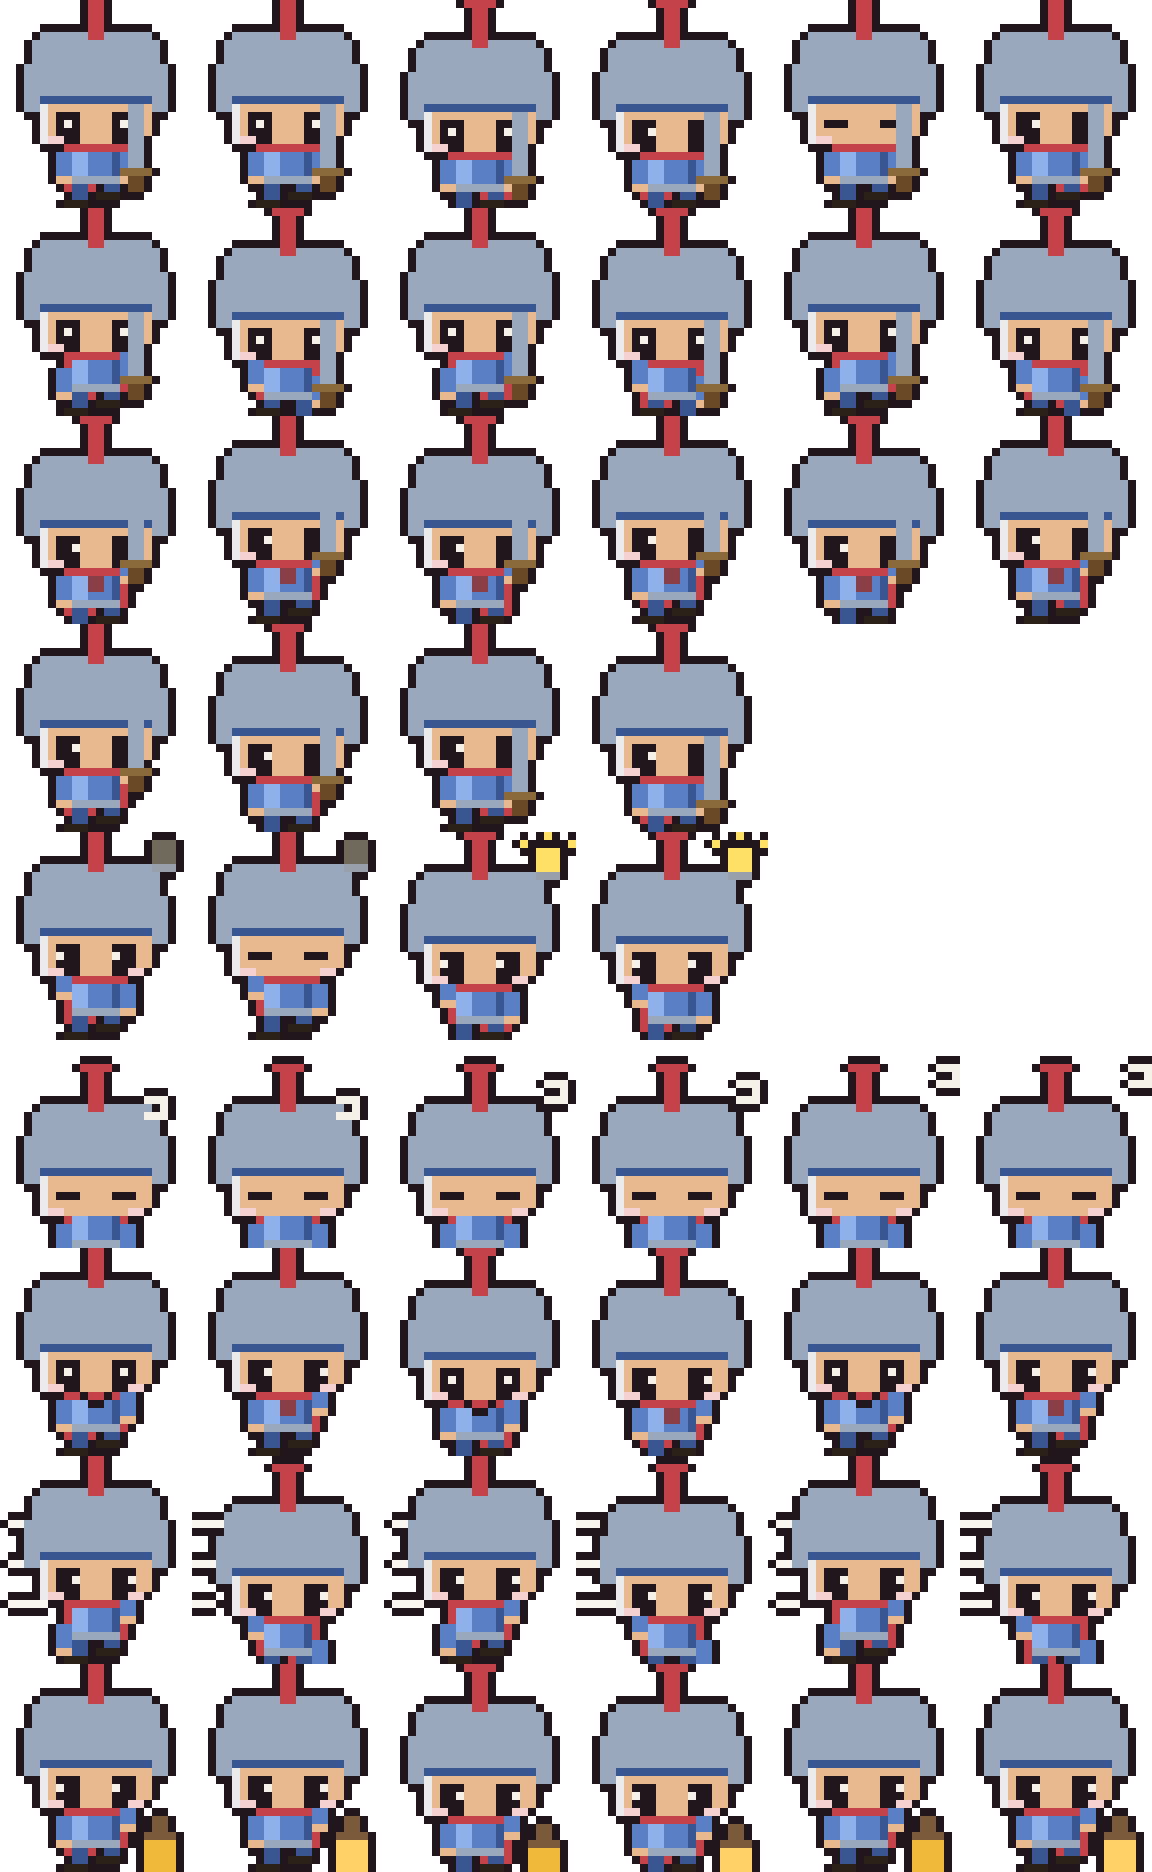
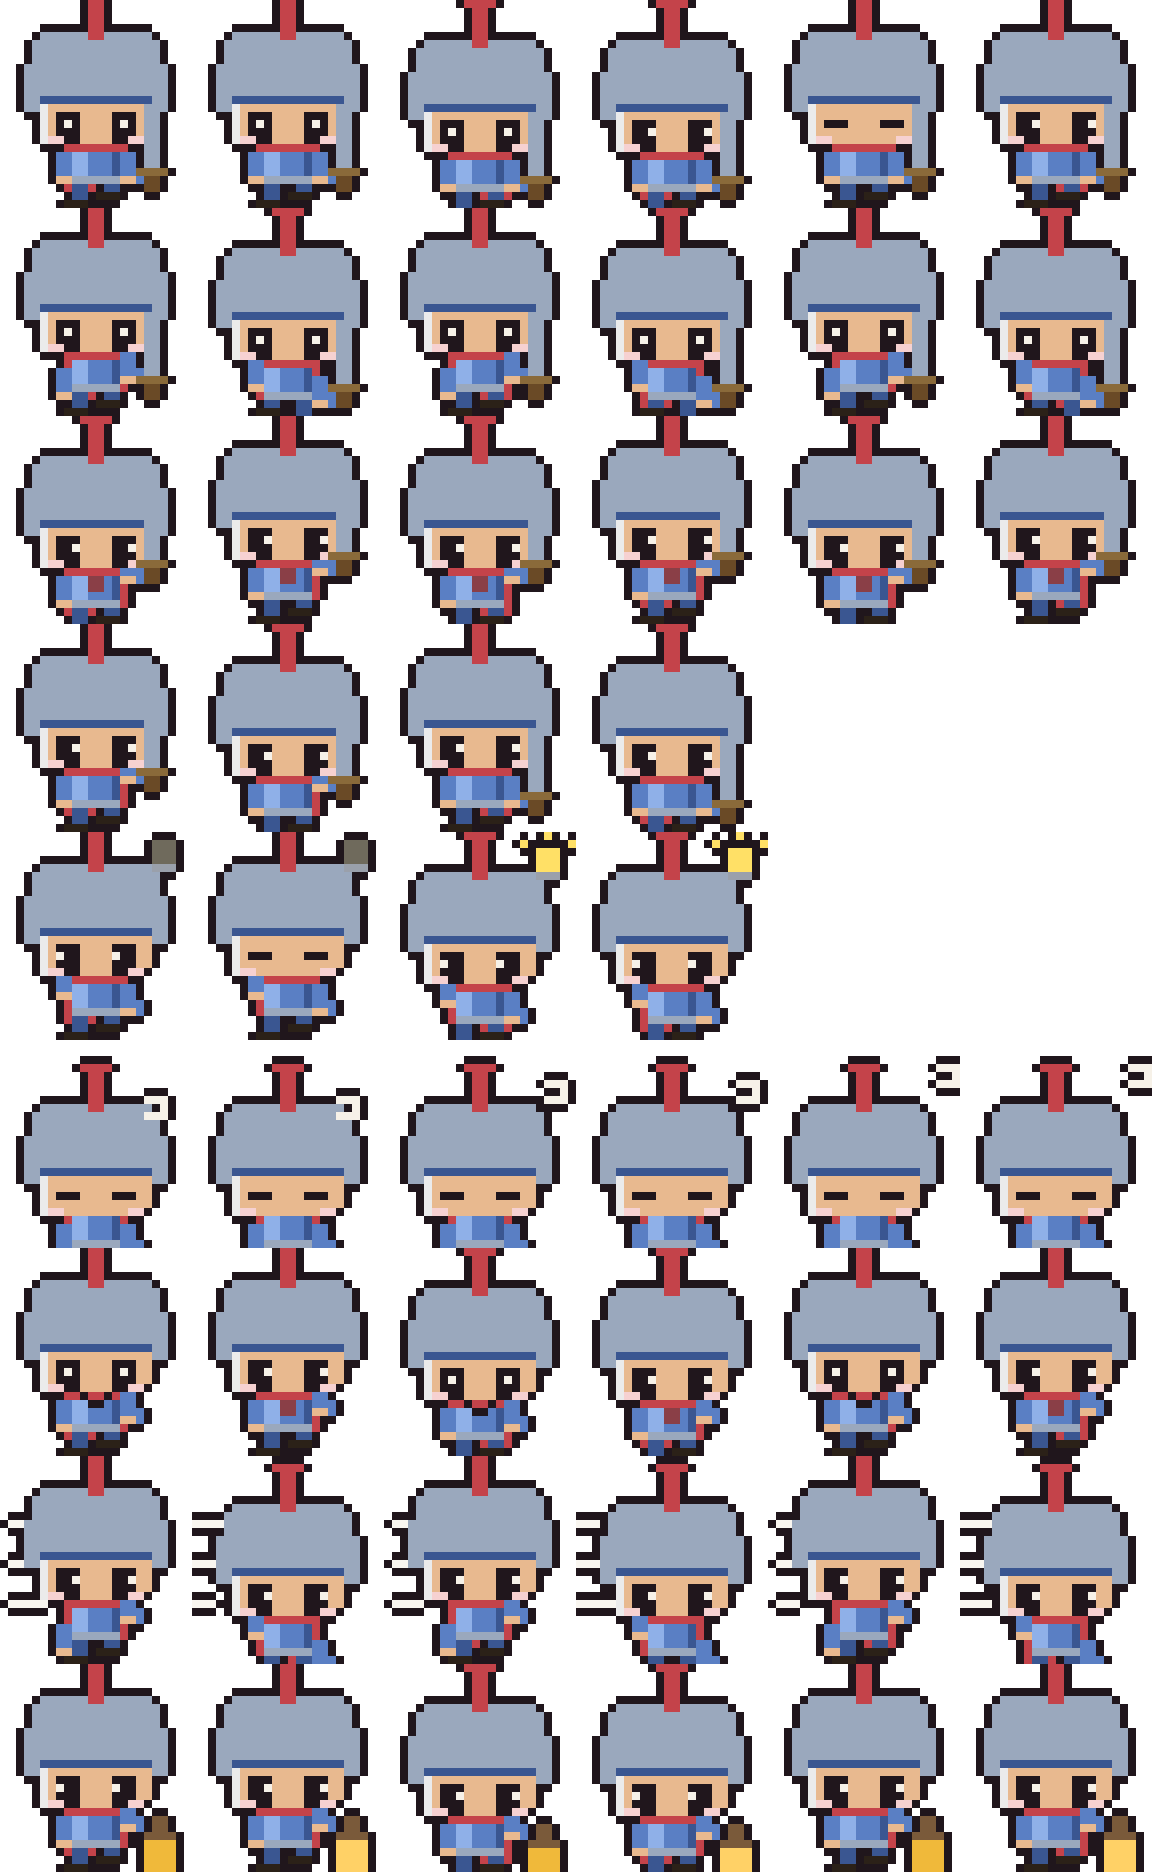
feat: 좌우 흔들림 제거, 무기 간격, 캐릭터 다섯 더
**좌우 흔들림** — 몸통을 기울이던 CSS 모션은 마크를 다시 그릴 수 없던 시절의
것이다. 로고를 통째로 돌리고 눌러서 캐릭터인 척했다. 프레임이 직접 연기하는
지금은 둘이 겹쳐서 떨리기만 한다. 스프라이트일 때는 걸지 않는다.

**무기가 몸에 붙어 있던 것** — 팔이 끝나는 칸에서 바로 시작해서 손에 든 것으로
안 보였다. 손 바깥에서 시작하고, 팔이 무기 쪽으로 한 칸 뻗는다. 사이가 비면
공중부양처럼 보이기 때문이다.

**새 식구 다섯** — 사람 몸에 동물·사물 머리. 조사한 규칙 그대로:

  Bunbun 긴 귀 토끼 — 당근
  Choco  둥근 귀 곰 — 꿀단지
  Nimbus 구름 머리 — 우산
  Momo   복숭아 머리 — 숟가락
  Mocha  컵을 인 요정 — 빨대

머리 장식 중 **프레임마다 달라지는 것**은 따로 뺐다(`headFx`). 김이 가만히 있으면
뜨겁지 않고, 구름이 가만히 있으면 구름이 아니다.

`grid` 를 선언 전에 쓴 것을 테스트가 잡았다. 예전에 같은 실수로 패널이 통째로
비었는데 프로세스는 멀쩡해 보였다 — 그때 테스트를 남겨 둔 값을 했다.

diff --git a/renderer/index.html b/renderer/index.html
@@ -557,11 +557,19 @@
       // 모션은 `q` 가 생긴 뒤에 건다 — 앞에 두면 선언 전 접근이라 콜백이 통째로 죽고,
       // 화면에는 빈 패널만 남는다 (실제로 그렇게 됐다).
       const charEl = q(".char");
-      const motion = motionFor(a, tick);
+      // 어떤 캐릭터로 그릴지가 먼저다. 모션도 인벤토리도 이 답에 따라 갈린다 —
+      // 아래에서 선언해 두고 여기서 쓰면 콜백이 통째로 죽는다(또 그랬다).
+      const pack = chosenPet();
+      const grid = pack ? grids.get(pack.sheet) : null;
+      /* 스프라이트 시트를 쓸 때는 몸통을 기울이지 않는다.
+         이 모션들은 마크를 다시 그릴 수 없던 시절의 것이다 — 로고를 통째로
+         돌리고 눌러서 캐릭터인 척했다. 프레임이 직접 연기하는 지금은 둘이
+         겹쳐서 캐릭터가 좌우로 떨리기만 한다. 자는 것만 남긴다(Z 표시 때문). */
+      const motion = grid ? (a.state === "idle" ? "m-sleep" : "") : motionFor(a, tick);
       if (charEl.dataset.motion !== motion) {
         // 클래스를 통째로 다시 쓴다. 이전 모션만 골라 지우는 것보다 짧고,
         // 어떤 상태에서 시작하든 결과가 같다.
-        charEl.className = `char ${motion}`;
+        charEl.className = motion ? `char ${motion}` : "char";
         charEl.dataset.motion = motion;
       }
       q(".zzz").style.display = motion === "m-sleep" ? "block" : "none";
@@ -572,8 +580,6 @@
 
       // 스프라이트 팩이 있으면 캐릭터는 그쪽이다. 팩 안에 이미 모자·도구가
       // 그려져 있어서, 우리 모자를 덧씌우면 둘 다 이상해진다.
-      const pack = chosenPet();
-      const grid = pack ? grids.get(pack.sheet) : null;
       n.classList.toggle("sprite", Boolean(grid));
       if (grid) {
         const sheet = q(".sheet");
